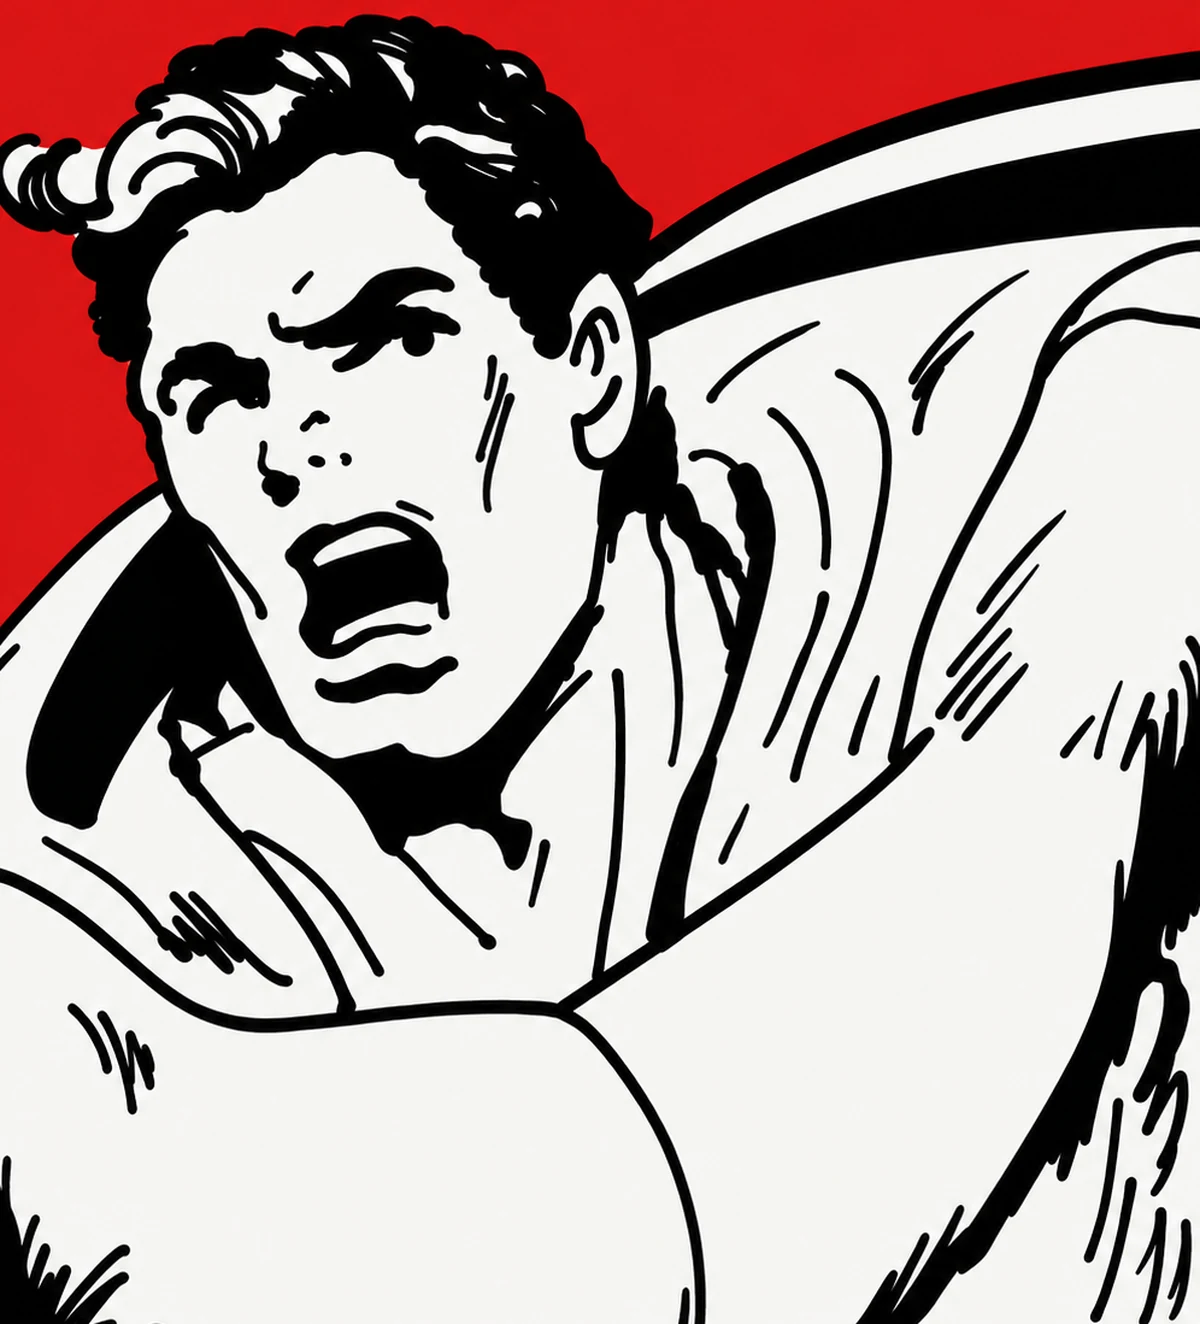
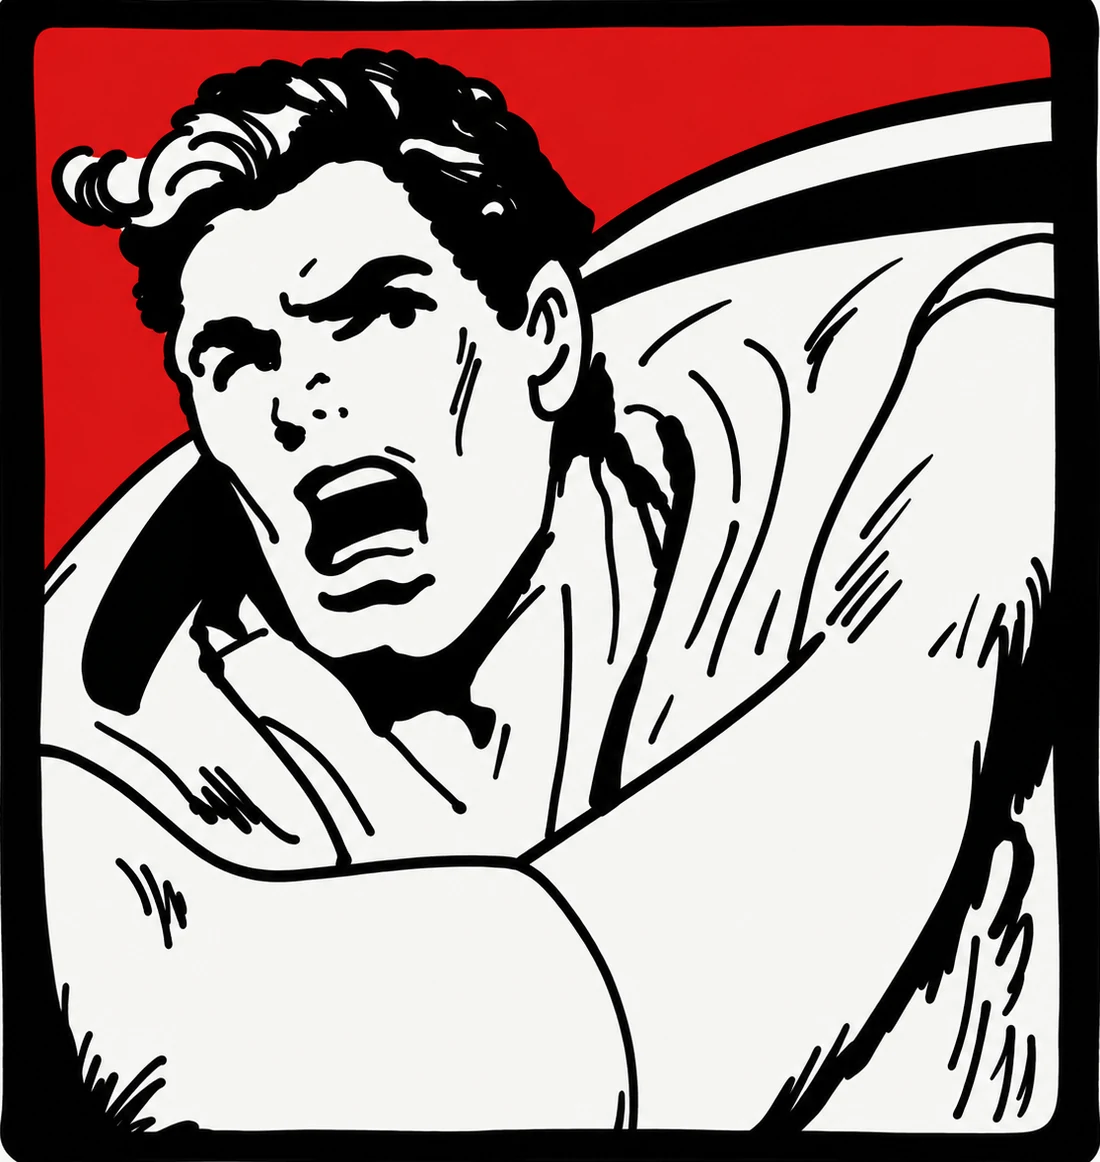
fix(cms): stop cropping the login artwork and reset the body margin
The hero art is a comic panel at ratio 0.95, but its column is far wider than
it is tall -- 1300x912 on a 1920px screen. background-size: cover had to scale
it to 107% and threw away 35% of the drawing, blowing up the face.

The art is now an <img> with object-fit: contain over the drawing's own paper
colour (#f6f6f4), capped at 760x820 so it does not balloon on large monitors.
Nothing is cropped at any desktop size and it renders at 49-69% of natural
size instead of being enlarged. The asset was re-exported keeping the black
comic frame, so the contained panel reads as artwork on paper rather than a
floating crop; it also got 8 KB smaller.

On the mobile banner cropping is the right call, so there it stays cover, with
the image absolutely positioned -- height: 100% does not resolve against a
grid item that only has height by stretching. The band went from 30dvh to
28dvh so the screen no longer scrolls by 2px on a 812px viewport.

Separately: .peg-body never reset the user-agent body margin, so every screen
in the CMS carried an 8px gutter and a spurious scrollbar. Fixed in the design
system, where the rest of the base reset already lives.

Verified: no crop and no overflow at 1920x912, 1440x900, 1280x800, 1024x768,
768x1024 and 375x812; 2/2 Playwright tests, typecheck, eslint and the
design-system unit tests all pass.

diff --git a/apps/cms/app/login/login.css b/apps/cms/app/login/login.css
@@ -11,12 +11,25 @@
 
 /* --- lado da arte --- */
 
+/* A arte e um quadro de HQ: proporcao ~0.95 num campo que pode ficar bem mais largo.
+   Por isso ela e contida (nunca recortada) sobre o proprio papel do desenho, com um
+   teto de tamanho para nao inchar em monitor grande. */
 .peg-login__hero {
-  background-color: #f4f2ee;
-  background-image: url("/login-hero.webp");
-  background-size: cover;
-  background-position: center;
-  background-repeat: no-repeat;
+  display: grid;
+  place-items: center;
+  overflow: hidden;
+  background: #f6f6f4;
+  padding: clamp(var(--peg-space-4), 3vw, var(--peg-space-12));
+}
+
+.peg-login__art {
+  display: block;
+  width: 100%;
+  height: 100%;
+  max-width: 760px;
+  max-height: 820px;
+  object-fit: contain;
+  object-position: center;
 }
 
 /* --- painel do formulário --- */
@@ -216,11 +229,25 @@
 @media (max-width: 900px) {
   .peg-login {
     grid-template-columns: 1fr;
-    grid-template-rows: 30dvh auto;
+    grid-template-rows: 28dvh auto;
   }
 
+  /* Na faixa horizontal do mobile a arte preenche: ai recortar e o certo.
+     Posicao absoluta porque height:100% nao resolve contra um item de grid
+     que so tem altura por estiramento. */
   .peg-login__hero {
-    background-position: center 25%;
+    display: block;
+    position: relative;
+    padding: 0;
+  }
+
+  .peg-login__art {
+    position: absolute;
+    inset: 0;
+    max-width: none;
+    max-height: none;
+    object-fit: cover;
+    object-position: center 30%;
   }
 
   .peg-login__panel {

diff --git a/apps/cms/app/login/page.tsx b/apps/cms/app/login/page.tsx
@@ -44,7 +44,9 @@ export default function LoginPage() {
 
   return (
     <main className="peg-login">
-      <div className="peg-login__hero" aria-hidden="true" />
+      <div className="peg-login__hero">
+        <img className="peg-login__art" src="/login-hero.webp" alt="" fetchPriority="high" />
+      </div>
 
       <section className="peg-login__panel">
         <div className="peg-login__content">

diff --git a/packages/design-system/src/styles.css b/packages/design-system/src/styles.css
@@ -1,6 +1,7 @@
 /* PEG / Kal El design system — implementation styles (prose-first, dense, border-led). */
 
 .peg-body {
+  margin: 0;
   font: var(--peg-font-body);
   color: var(--peg-text-primary);
   background: var(--peg-canvas);
